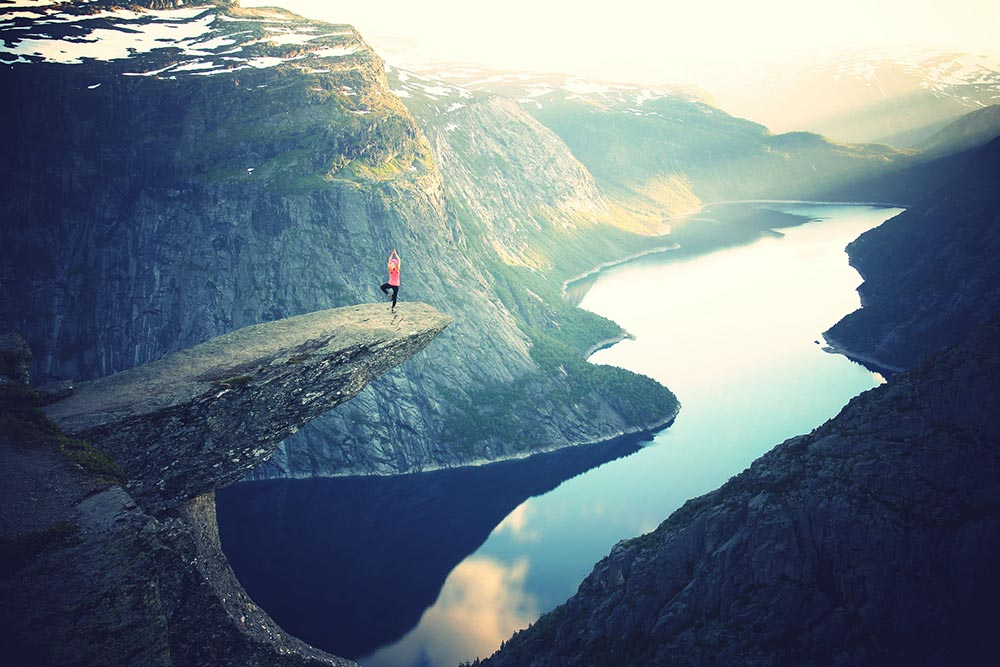
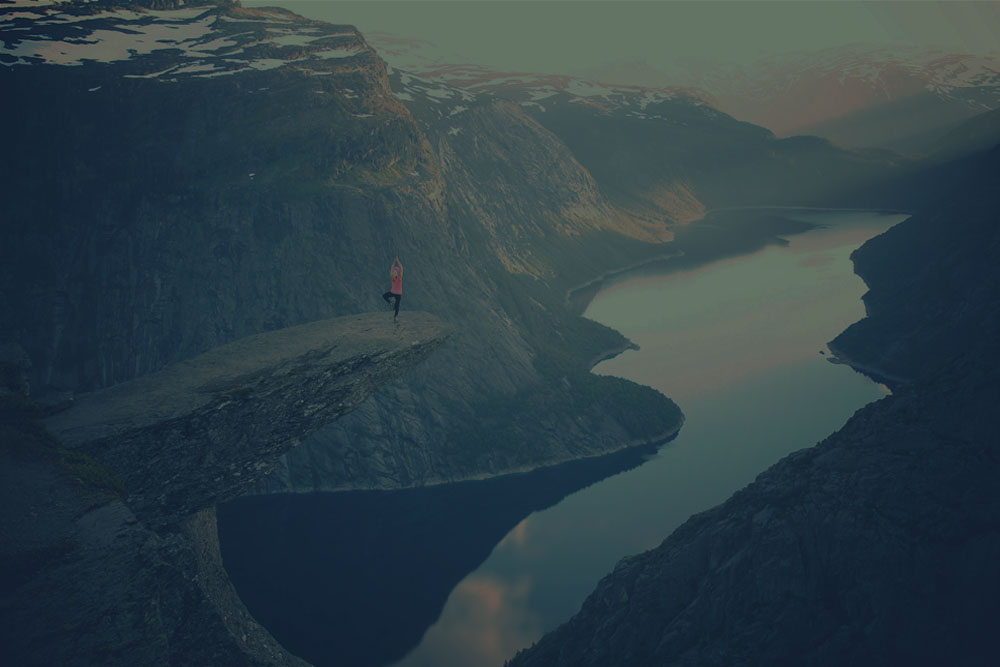
ajust

diff --git a/src/pages/3idees.html b/src/pages/3idees.html
@@ -1,10 +1,10 @@
 <div id="main">
 <div id="fullpage">
     <div class="section row hero">
-            <div class="columns">
+        <div class="columns">
             <h1>Somos una agencia de <span class=" gradient">Marketing <span class="nogradient">y</span> Diseño</span></h1>
             <br><p>¿Tienes un <b>proyecto nuevo</b> y no sabes por dónde empezar?<br>¿Quieres atraer <b>más clientes</b>?<br></p>
-            </div>
+        </div>
         <div class="small-12 text-center columns arrow-black"></div>
     </div>
 
@@ -27,38 +27,39 @@
     </div>
 
     <div class="section row">
-    <div class="columns">
-            <h3>Cómo podemos ayudarte a <b>ganar más</b><br class="show-for-small-only"> con tu negocio.<br></h3></div>
-            <div class="text-left columns">
-            <p><br>Hemos generado más de 1 millón de € en ganancias para nuestros clientes utilizando la metodología de <b>Growth Marketing</b>.</p>
-            </div>
-            <div class="columns text-center">            
-            <p><br>Si quieres saber cómo podemos ayudarte a conseguir tus objetivos:</p>
-            </div>
-                <div class="small-12 text-center medium-6 medium-text-left columns margintop">  
-                    <a href="../servicios.html" class="gradient-border"><div class="text"> Visita nuestra página de Servicios</div></a> 
-                </div>
-                <div class="small-12 text-center medium-6 medium-text-right columns margintop">  
-                    <a href="../contacto.html" class="gradient-border"><div class="text"> Ponte en Contacto con nosotros</div></a> 
-                </div>
+        <div class="columns">
+            <h3>Cómo podemos ayudarte a <b>ganar más</b><br class="show-for-small-only"> con tu negocio.<br></h3>
+        </div>
+        <div class="text-left columns">
+           <p><br>Hemos generado más de 1 millón de € en ganancias para nuestros clientes utilizando la metodología de <b>Growth Marketing</b>.</p>
+        </div>
+        <div class="columns text-center">            
+          <p><br>Si quieres saber cómo podemos ayudarte a conseguir tus objetivos:</p>
+        </div>
+        <div class="small-12 text-center medium-6 medium-text-left columns margintop">  
+            <a href="../servicios.html" class="gradient-border"><div class="text"> Visita nuestra página de Servicios</div></a> 
+        </div>
+        <div class="small-12 text-center medium-6 medium-text-right columns margintop">  
+            <a href="../contacto.html" class="gradient-border"><div class="text"> Ponte en Contacto con nosotros</div></a> 
+        </div>
         <div class="small-12 text-center columns arrow-black"></div>
     </div> 
 
     <div class="section goals">
-                <div class="row textlayer">
+        <div class="row textlayer">
             <div class="small-3 columns">
-            <p class="num1">1</p>
+                <p class="num1">1</p>
             </div>
             <div class="small-9 columns text-right">
-            <h2 class="title"><b>¿Qué podrías conseguir <span>trabajando con nosotros</span>?</b></h2>
+                <h2 class="title"><b>¿Qué podrías conseguir <span>trabajando con nosotros</span>?</b></h2>
             </div>
-            </div>
-            <div class="row nomargin textlayer">
+        </div>
+        <div class="row nomargin textlayer">
             <div class="columns">
-            <h3 class="subtitle">La rentabilidad de <span>nuestros clientes</span> aumentó de media un 210% en el último año.</h3>
-            <p>Somos rentables desde el primer día gracias a que no hacemos nada sin un “porqué”. Para conseguirlo utilizamos la <span>metodología LEAN</span>, que se basa en satisfacer las necesidades específicas del consumidor y saber cómo hacerlo usando la cantidad mínima de dinero.</p>
+                <h3 class="subtitle">La rentabilidad de <span>nuestros clientes</span> aumentó de media un 210% en el último año.</h3>
+                <p>Somos rentables desde el primer día gracias a que no hacemos nada sin un “porqué”. Para conseguirlo utilizamos la <span>metodología LEAN</span>, que se basa en satisfacer las necesidades específicas del consumidor y saber cómo hacerlo usando la cantidad mínima de dinero.</p>
             </div>
-            </div>
+        </div>
             <div class="small-12 text-center columns arrow-black"></div>
         </div>
 
@@ -72,14 +73,14 @@
     </div>
 
     <div class="section morework">
-    <div class="row textlayer">
-            <div class="columns">
+      <div class="row textlayer">
+        <div class="columns">
             <p class="num3">3</p>
             <h3>Menos reuniones, <span>más trabajo</span>.</h3>
             <p>Gracias a que seguimos unos procesos de trabajo muy definidos no necesitamos celebrar reuniones continuamente con el cliente, esto nos supone a nosotros y a ellos un gran ahorro de tiempo que luego se nota en los plazos de entrega.</p>
-            </div> 
-            </div>
-        <div class="small-12 text-center columns arrow-black"></div>
+        </div> 
+      </div>
+      <div class="small-12 text-center columns arrow-black"></div>
     </div>
 
     <div class="section row">

diff --git a/src/assets/scss/_general.scss b/src/assets/scss/_general.scss
@@ -159,7 +159,7 @@ background-position: right;}
       width: 100%;
       height: 100%;
       z-index: 1;
-      opacity: $bgopacity;
+      opacity: 0.7;
       background-image: url('../images/mobile/3ideesbg3.jpeg');
       background-repeat: no-repeat;
       background-position: 50% 0;
@@ -182,8 +182,11 @@ background-position: right;}
   hr { height:2px;   background: $gradient;}
 
   .headerbg {     position: fixed;
-    z-index: 10;
+    z-index: 299;
     width: 100%;
     height: 3.5rem;
     top: 0px;
     background-color: $white;}
+
+
+    

diff --git a/src/pages/servicios.html b/src/pages/servicios.html
@@ -9,7 +9,7 @@
                     <p>Si después de 6 semanas no estás deslumbrado por nuestros resultados te devolvemos tu dinero de vuelta.</p>
                     </div>
                 </div>
-                <div class="small-12 text-center columns arrow-black"></div>
+                <a id="arrow" href="#arrow" class="small-12 text-center columns arrow-black"></a>
         </div>  
         <div class="row text-center">
                     <div class="small-12 columns small-centered text-center">

diff --git a/src/pages/contacto.html b/src/pages/contacto.html
@@ -20,7 +20,6 @@
   <div class="row text-center">
       <div class="columns">
         <h3 class="margintop">Estaremos encantados de valorar si podemos <span>ayudarte</span>.</h3>
-
          <form id="gform" method="POST" action="https://script.google.com/macros/s/AKfycby-ZKPhXi9sy8T7JgLASabklWLy1A3mSFa9zWGoMOHc02ZSe7M/exec" class="margintop">
               <label for="nombre">nombre <span>*</span></label>
               <input type="text" required id="nombre" placeholder="Nombre" name="nombre"/>

diff --git a/src/assets/scss/_basic.scss b/src/assets/scss/_basic.scss
@@ -118,7 +118,9 @@ body { font-size: 0.875rem}
 
 .goalsbg{background-color:#3b3735 !important; }
 
-.moreworkbg{background-color:#81e6cf  !important;}
+.moreworkbg{
+color:#47e3fd !important;
+background-color:#55947b  !important;}
 
 .sticky{width:100% !important; }
 

diff --git a/readme.md b/readme.md
@@ -63,3 +63,4 @@ http://localhost:8000
 ```
 
 To create compressed, production-ready assets, run `npm run build`.
+"# 3idees" 
